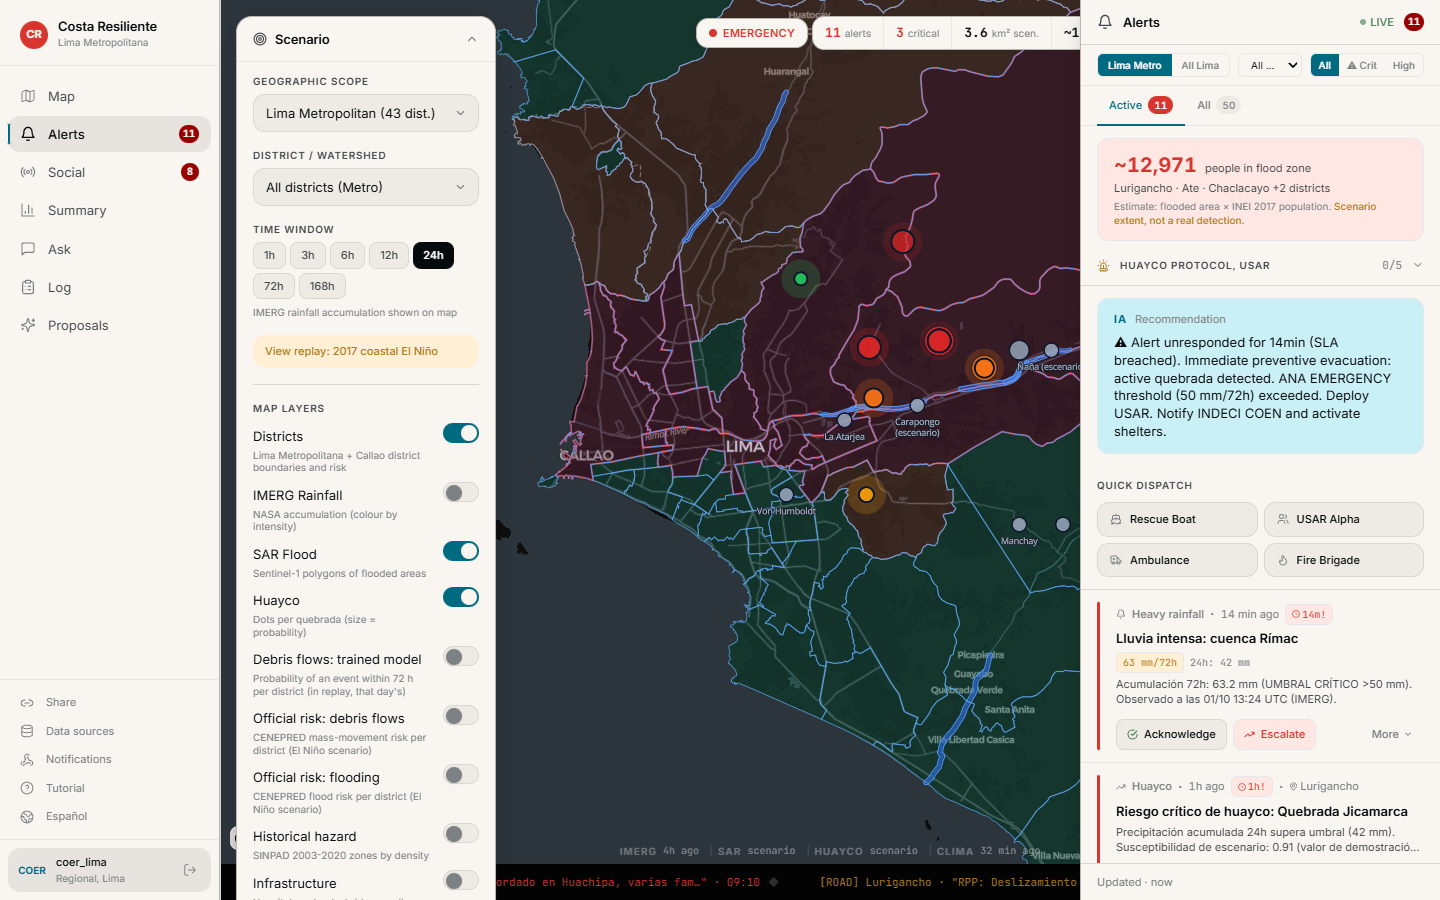
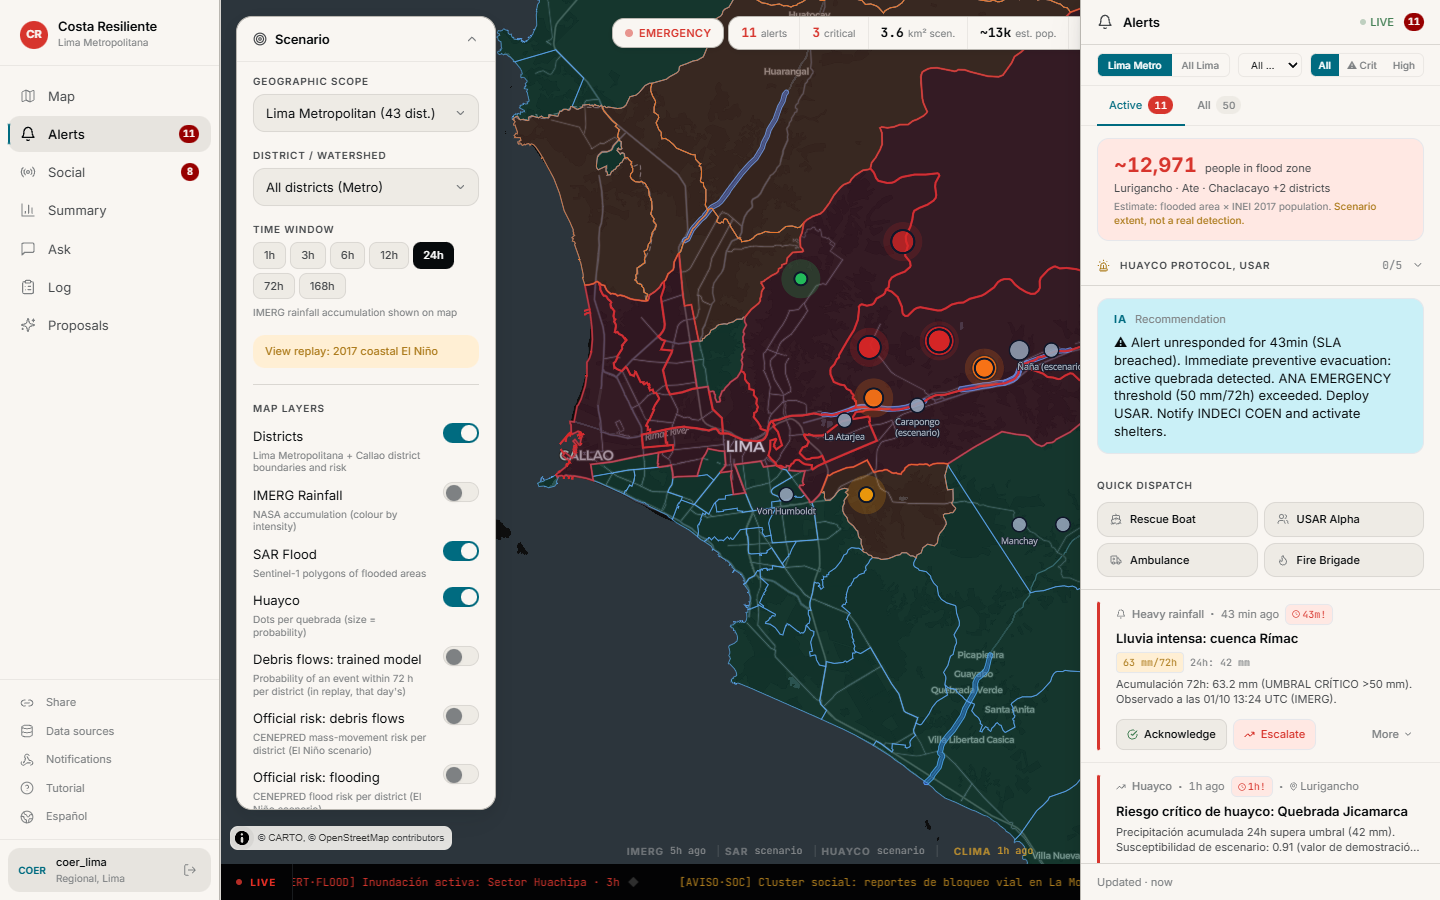
docs: refresh README screenshots with the scrollable Scenario panel
Scenario panel now stops above the map attribution and ticker on desktop.

diff --git a/apps/web/src/components/panels/ScenarioPanel.tsx b/apps/web/src/components/panels/ScenarioPanel.tsx
@@ -112,8 +112,8 @@ export function ScenarioPanel() {
         // Height cap is the belt to the collapse-on-mobile braces: even if an
         // operator opens it on a phone, the map stays on screen underneath.
         // On desktop the layer list ran past the bottom of short screens; it now
-        // scrolls inside the panel, stopping above the ticker.
-        <div className="border-t border-border-subtle max-h-[45svh] overflow-y-auto overscroll-contain [scrollbar-width:thin] sm:max-h-[calc(100svh-7.5rem)]">
+        // scrolls inside the panel, stopping above the map attribution and ticker.
+        <div className="border-t border-border-subtle max-h-[45svh] overflow-y-auto overscroll-contain [scrollbar-width:thin] sm:max-h-[calc(100svh-9.5rem)]">
           {isShareMode && (
             <div className="mx-4 mt-3 px-3 py-2 bg-warn-soft border border-warn/30 rounded-xl text-xs text-warn-muted flex items-center gap-2">
               <Lock size={13} strokeWidth={1.75} className="shrink-0" aria-hidden="true" />
